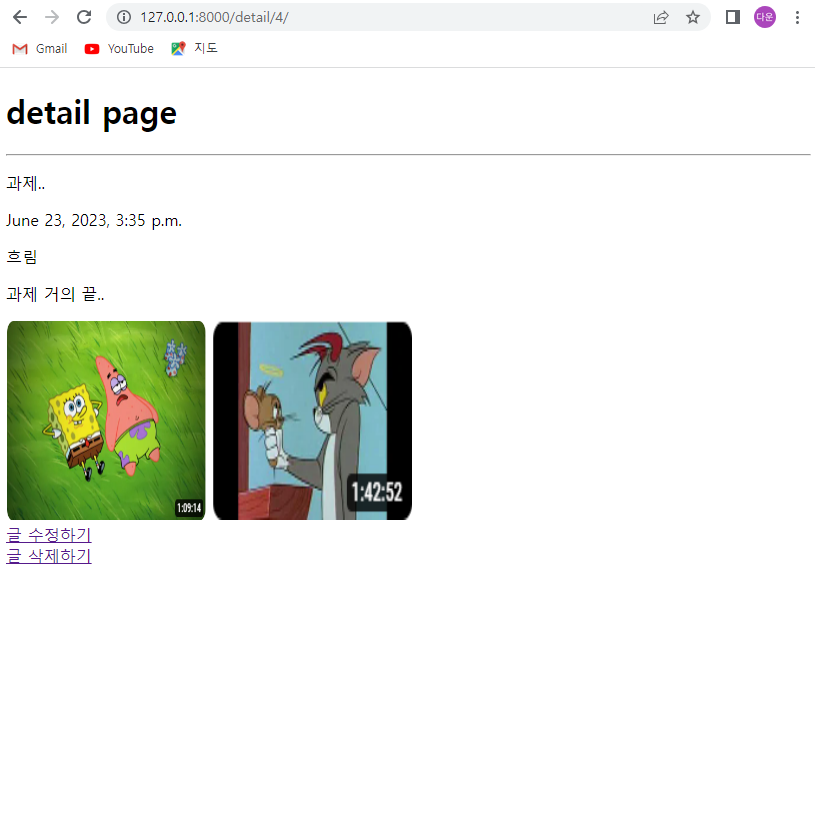
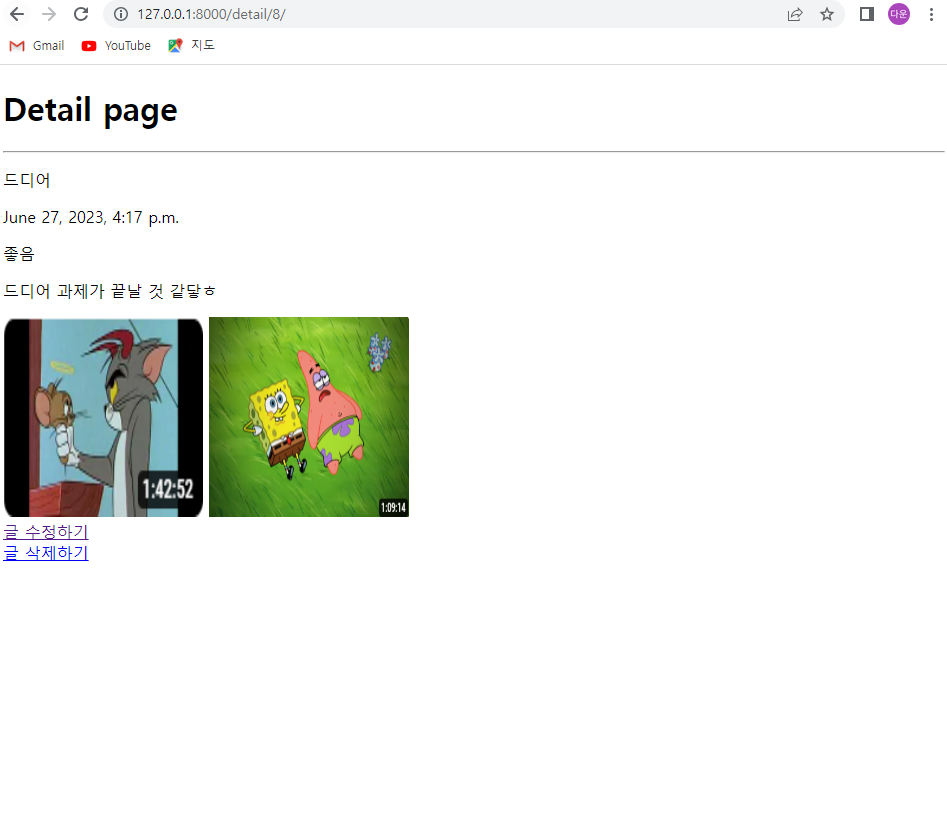
commit5

diff --git a/jungdaun/journalapp/templates/detail1.html b/jungdaun/journalapp/templates/detail1.html
@@ -5,22 +5,23 @@
 {% endblock title %}
 
 {% block content %}
-    <h1>detail page</h1>
-    <p>{{ journals.title }}</p>
-    <p>{{ journals.date }}</p>
-    <p>{{ journals.weather }}</p>
-    <p>{{ journals.content }}</p>
-    <p>{{ journals.file }}</p>
-    <p>{{ journals.image }}</p>
+    <h1>Detail page</h1>
+    <hr>
+    <p>{{ journal.title }}</p>
+    <p>{{ journal.pub_date }}</p>
+    <p>{{ journal.weather }}</p>
+    <p>{{ journal.content }}</p>
+    <p>{{ journal.file }}</p>
+    <p>{{ journal.image }}</p>
     <br>
-    {% if journals.file %}
-        <img src="{{ journals.file.url }}" width="200" height="200" alt="file">
+    {% if journal.file %}
+        <img src="{{ journal.file.url }}" width="200" height="200" alt="file">
     {% endif %}
-    {% if journals.image %}
-        <img src="{{ journals.image.url }}" width="200" height="200" alt="image">
+    {% if journal.image %}
+        <img src="{{ journal.image.url }}" width="200" height="200" alt="image">
     {% endif %}
     <br>
-    <a href="{% url 'update' journals.id %}">글 수정하기</a>
+    <a href="{% url 'update1' journal.id %}">글 수정하기</a>
     <br>
-    <a href="{% url 'delete' journals.id %}">글 삭제하기</a>
+    <a href="{% url 'delete1' journal.id %}">글 삭제하기</a>
 {% endblock %} 

diff --git a/jungdaun/diaryapp/templates/notform.html b/jungdaun/diaryapp/templates/notform.html
@@ -10,20 +10,21 @@
         <a href="{% url 'new' %}">일기 작성</a>
     </nav>
 
-    <br>
+    <br><br>
+    
     {% for diarys in diarys.all %}
-    <p><a href="{% url 'detail' diarys.id %}">{{diarys.title}}</a></p>
-    <p>제목 : {{ diarys.title }}</p>
-    <p>날짜 : {{ diarys.date }}</p>
-    <p>날씨 : {{ diarys.weather }}</p>
-    <p>일기 : {{ diarys.content }}</p>
-    {% if diarys.file %}
-        <img src="{{ diarys.file.url }}" width="200" height="200" alt="file">
-    {% endif %}
-    {% if diarys.image %}
-        <img src="{{ diarys.image.url }}" width="200" height="200" alt="image">
-    {% endif %}
-    <br><hr><br>
+        <p><a href="{% url 'detail' diarys.id %}">{{diarys.title}}</a></p>
+        <p>제목 : {{ diarys.title }}</p>
+        <p>날짜 : {{ diarys.pub_date }}</p>
+        <p>날씨 : {{ diarys.weather }}</p>
+        <p>일기 : {{ diarys.content }}</p>
+        {% if diarys.file %}
+            <img src="{{ diarys.file.url }}" width="200" height="200" alt="file">
+        {% endif %}
+        {% if diarys.image %}
+            <img src="{{ diarys.image.url }}" width="200" height="200" alt="image">
+        {% endif %}
+        <br><hr><br>
     {% endfor %}
 {% endblock %}
 

diff --git a/jungdaun/diaryapp/templates/detail.html b/jungdaun/diaryapp/templates/detail.html
@@ -1,24 +1,24 @@
 {% extends 'index.html' %}
 
 {% block title %}
-    <title>detail</title>
+    <title>Detail</title>
 {% endblock title %} 
 
 {% block content %}
-    <h1>detail page</h1>
+    <h1>Detail page</h1>
     <hr>
-    <p>{{ diarys.title }}</p>
-    <p>{{ diarys.date }}</p>
-    <p>{{ diarys.weather }}</p>
-    <p>{{ diarys.content }}</p>
-    {% if diarys.file %}
-        <img src="{{ diarys.file.url }}" width="200" height="200" alt="file">
+    <p>{{ diary.title }}</p>
+    <p>{{ diary.pub_date }}</p>
+    <p>{{ diary.weather }}</p>
+    <p>{{ diary.content }}</p>
+    {% if diary.file %}
+        <img src="{{ diary.file.url }}" width="200" height="200" alt="file">
     {% endif %}
-    {% if diarys.image %}
-        <img src="{{ diarys.image.url }}" width="200" height="200" alt="image">
+    {% if diary.image %}
+        <img src="{{ diary.image.url }}" width="200" height="200" alt="image">
     {% endif %}
     <br>
-    <a href="{% url 'edit' diarys.id %}">글 수정하기</a>
+    <a href="{% url 'edit' diary.id %}">글 수정하기</a>
     <br>
-    <a href="{% url 'delete' diarys.id %}">글 삭제하기</a>
+    <a href="{% url 'delete' diary.id %}">글 삭제하기</a>
 {% endblock %}

diff --git a/jungdaun/journalapp/templates/useform.html b/jungdaun/journalapp/templates/useform.html
@@ -12,16 +12,16 @@
 
     <br>
     {% for journals in journals %}
-    <p><a href="{% url 'detail1' journals.id %}">{{journals.title}}</a></p>
-    <p>제목 : {{ journals.title }}</p>
-    <p>날짜 : {{ journals.date }}</p>
-    <p>날씨 : {{ journals.weather }}</p>
-    <p>일기 : {{ journals.content }}</p>
-    {% if journals.file %}
-        <img src="{{ journals.file.url }}" width="200" height="200" alt="file">
-    {% endif %}
-    {% if journals.image %}
-        <img src="{{ journals.image.url }}" width="200" height="200" alt="image">
-    {% endif %}
+        <p><a href="{% url 'detail1' journals.id %}">{{journals.title}}</a></p>
+        <p>제목 : {{ journals.title }}</p>
+        <p>날짜 : {{ journals.pub_date }}</p>
+        <p>날씨 : {{ journals.weather }}</p>
+        <p>일기 : {{ journals.content }}</p>
+        {% if journals.file %}
+            <img src="{{ journals.file.url }}" width="200" height="200" alt="file">
+        {% endif %}
+        {% if journals.image %}
+            <img src="{{ journals.image.url }}" width="200" height="200" alt="image">
+        {% endif %}
     {% endfor %}
 {% endblock %}

diff --git a/jungdaun/diaryapp/templates/edit.html b/jungdaun/diaryapp/templates/edit.html
@@ -5,11 +5,13 @@
 {% endblock title %} 
 
 {% block content %}
-    <form method="POST" action = "{% url 'edit' edit_diary.id %}" enctype="multipart/form-data">
+    <h1>Edit Page</h1>
+    <hr>
+    <form method="POST" action = "{% url 'update' edit_diary.id %}" enctype="multipart/form-data">
         {% csrf_token %}
-        제목 : <input type="text" name = "title" value = "{{ edit_diarys.title }}"><br>
-        날씨 : <input type="text" name = "weather" value = "{{ edit_diarys.weather }}"><br>
-        일기 : <textarea name = "content" cols="30" rows = "10" value = "{{ edit_diarys.content }}"></textarea> <br>
+        제목 : <input type="text" name = "title" value = "{{ edit_diary.title }}"><br>
+        날씨 : <input type="text" name = "weather" value = "{{ edit_diary.weather }}"><br>
+        일기 : <textarea name = "content" cols="30" rows = "10" value = "{{ edit_diary.content }}"></textarea> <br>
         <div>
             파일 업로드 : <input type="file" name = "file"><br>
             이미지 업로드 : <input type="file" name = "image"><br>

diff --git a/jungdaun/journalapp/templates/write.html b/jungdaun/journalapp/templates/write.html
@@ -6,13 +6,10 @@
 
 {% block content %}
     <form method="POST" enctype="multipart/form-data">
-        제목 : <input type="text" name = "title"><br>
-        날씨 : <input type="text" name = "weather"><br>
-        일기 : <textarea name = "content" cols="30" rows = "10"></textarea> <br>
-        <div>
-            파일 업로드 : <input type="file" name = "file"><br>
-            이미지 업로드 : <input type="file" name = "image"><br>
-        </div>
+        {% csrf_token %}
+        <table>
+            {{ form.as_table }}
+        </table>
         <button type = "submit">작성</button>
     </form>
 {% endblock %}

diff --git a/jungdaun/diaryapp/templates/new.html b/jungdaun/diaryapp/templates/new.html
@@ -1,7 +1,7 @@
 {% extends 'index.html' %}
 
 {% block title %}
-    <title>Edit</title>
+    <title>Create</title>
 {% endblock title %} 
 
 {% block content %}

diff --git a/jungdaun/journalapp/views.py b/jungdaun/journalapp/views.py
@@ -1,43 +1,45 @@
 from django.shortcuts import render, redirect, get_object_or_404
 from django.utils import timezone
 from .models import JournalUseForm
+from .forms import JournalForm
 
 # Create your views here.
 def write(request):
     if request.method == 'POST':
-        form = JournalUseForm(request.POST, request.FILES)
+        form = JournalForm(request.POST, request.FILES)
         if form.is_valid():
             form = form.save(commit = False)
             form.pub_date = timezone.now()
             form.save()
             return redirect('useform')
     else:
-        form = JournalUseForm
-        return render(request, 'write.html', {'form' : form})
+        form = JournalForm
+        return render(request, 'write.html', {'form': form})
 
 def useform(request):
     journals = JournalUseForm.objects.all()
     return render(request, 'useform.html', {'journals' : journals})
 
-def update(request, id):
-    journal = get_object_or_404(JournalUseForm, id = id)
+def update1(request, id):
+    journal = get_object_or_404(JournalUseForm, id=id)
     if request.method == 'POST':
-        form = JournalUseForm(request.POST, request.FILES, instance = journal)
+        form = JournalForm(request.POST, request.FILES, instance=journal)
         if form.is_valid():
-            form = form.save(commit = False)
+            form = form.save(commit=False)
             form.pub_date = timezone.now()
             form.save()
             return redirect('useform')
     else:
-        form = JournalUseForm(instance = journal)
-        return render(request, 'update.html', {'form': form})
+        form = JournalForm(instance=journal)
+        return render(request, 'update1.html', {'form': form})
 
-def delete(request, id):
+
+def delete1(request, id):
     journal = get_object_or_404(JournalUseForm, id = id)
     journal.delete()
     return redirect('useform')
 
 
 def detail1(request, id):
-    journals = get_object_or_404(JournalUseForm, id = id)
-    return render(request, 'detail1.html', {'journals' : journals})
+    journal = get_object_or_404(JournalUseForm, id = id)
+    return render(request, 'detail1.html', {'journal' : journal})

diff --git a/jungdaun/diaryapp/views.py b/jungdaun/diaryapp/views.py
@@ -9,7 +9,7 @@ def new(request):
 def create(request):
     diary = DiaryNotForm()
     diary.title = request.POST['title']
-    diary.date = timezone.now()
+    diary.pub_date = timezone.now()
     diary.weather = request.POST['weather']
     diary.content = request.POST['content']
     diary.file = request.FILES['file']
@@ -18,17 +18,17 @@ def create(request):
     return redirect('notform')
 
 def notform(request):
-    diarys = DiaryNotForm.objects.all()
+    diarys = DiaryNotForm.objects
     return render(request, 'notform.html', {'diarys': diarys})
 
 def edit(request, id):
-    edit_diary = get_object_or_404(DiaryNotForm, id=id)
+    edit_diary = DiaryNotForm.objects.get(id = id)
     return render(request, 'edit.html', {'edit_diary': edit_diary})
 
 def update(request, id):
-    update_diary = get_object_or_404(DiaryNotForm, id=id)
+    update_diary = DiaryNotForm.objects.get(id = id)
     update_diary.title = request.POST['title']
-    update_diary.date = timezone.now()
+    update_diary.pub_date = timezone.now()
     update_diary.weather = request.POST['weather']
     update_diary.content = request.POST['content']
     update_diary.file = request.FILES['file']
@@ -43,5 +43,5 @@ def delete(request, id):
 
 
 def detail(request, id):
-    diarys = get_object_or_404(DiaryNotForm, id = id)
-    return render(request, 'detail.html', {'diarys' : diarys})
+    diary = get_object_or_404(DiaryNotForm, id = id)
+    return render(request, 'detail.html', {'diary' : diary})

diff --git a/jungdaun/journalapp/migrations/0004_rename_date_journaluseform_pub_date_and_more.py b/jungdaun/journalapp/migrations/0004_rename_date_journaluseform_pub_date_and_more.py
@@ -1,0 +1,23 @@
+# Generated by Django 4.2.1 on 2023-06-27 15:38
+
+from django.db import migrations, models
+
+
+class Migration(migrations.Migration):
+
+    dependencies = [
+        ('journalapp', '0003_alter_journaluseform_date'),
+    ]
+
+    operations = [
+        migrations.RenameField(
+            model_name='journaluseform',
+            old_name='date',
+            new_name='pub_date',
+        ),
+        migrations.AlterField(
+            model_name='journaluseform',
+            name='weather',
+            field=models.CharField(max_length=20),
+        ),
+    ]

diff --git a/jungdaun/diaryapp/migrations/0004_rename_date_diarynotform_pub_date_and_more.py b/jungdaun/diaryapp/migrations/0004_rename_date_diarynotform_pub_date_and_more.py
@@ -1,0 +1,23 @@
+# Generated by Django 4.2.1 on 2023-06-27 15:48
+
+from django.db import migrations, models
+
+
+class Migration(migrations.Migration):
+
+    dependencies = [
+        ('diaryapp', '0003_alter_diarynotform_date'),
+    ]
+
+    operations = [
+        migrations.RenameField(
+            model_name='diarynotform',
+            old_name='date',
+            new_name='pub_date',
+        ),
+        migrations.AlterField(
+            model_name='diarynotform',
+            name='weather',
+            field=models.CharField(max_length=20),
+        ),
+    ]
